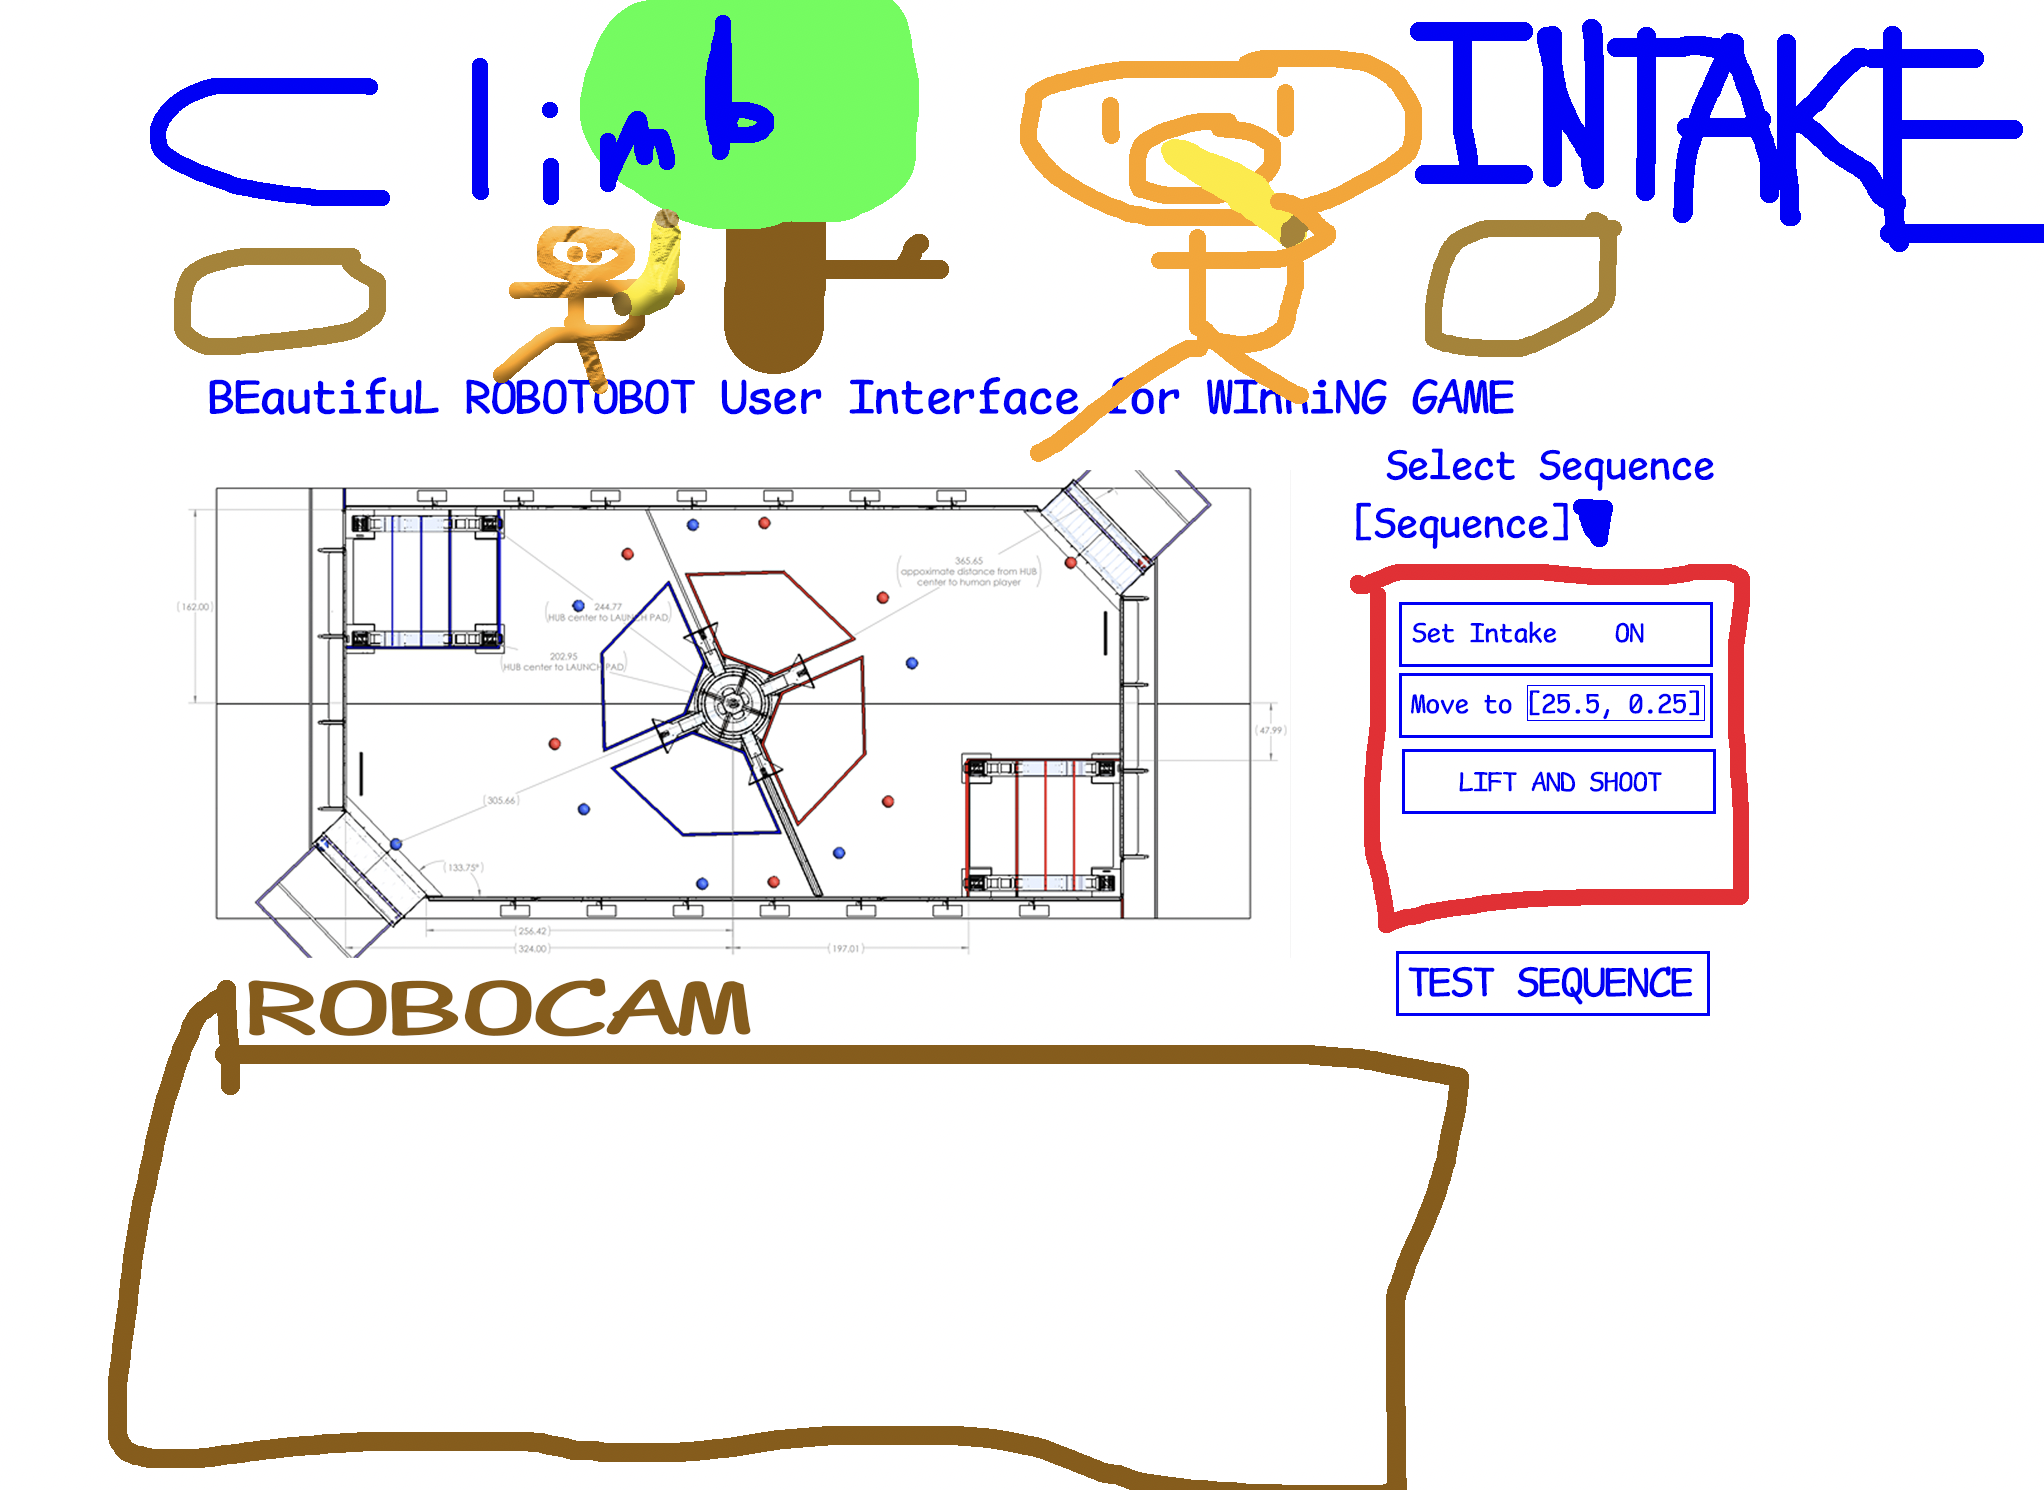
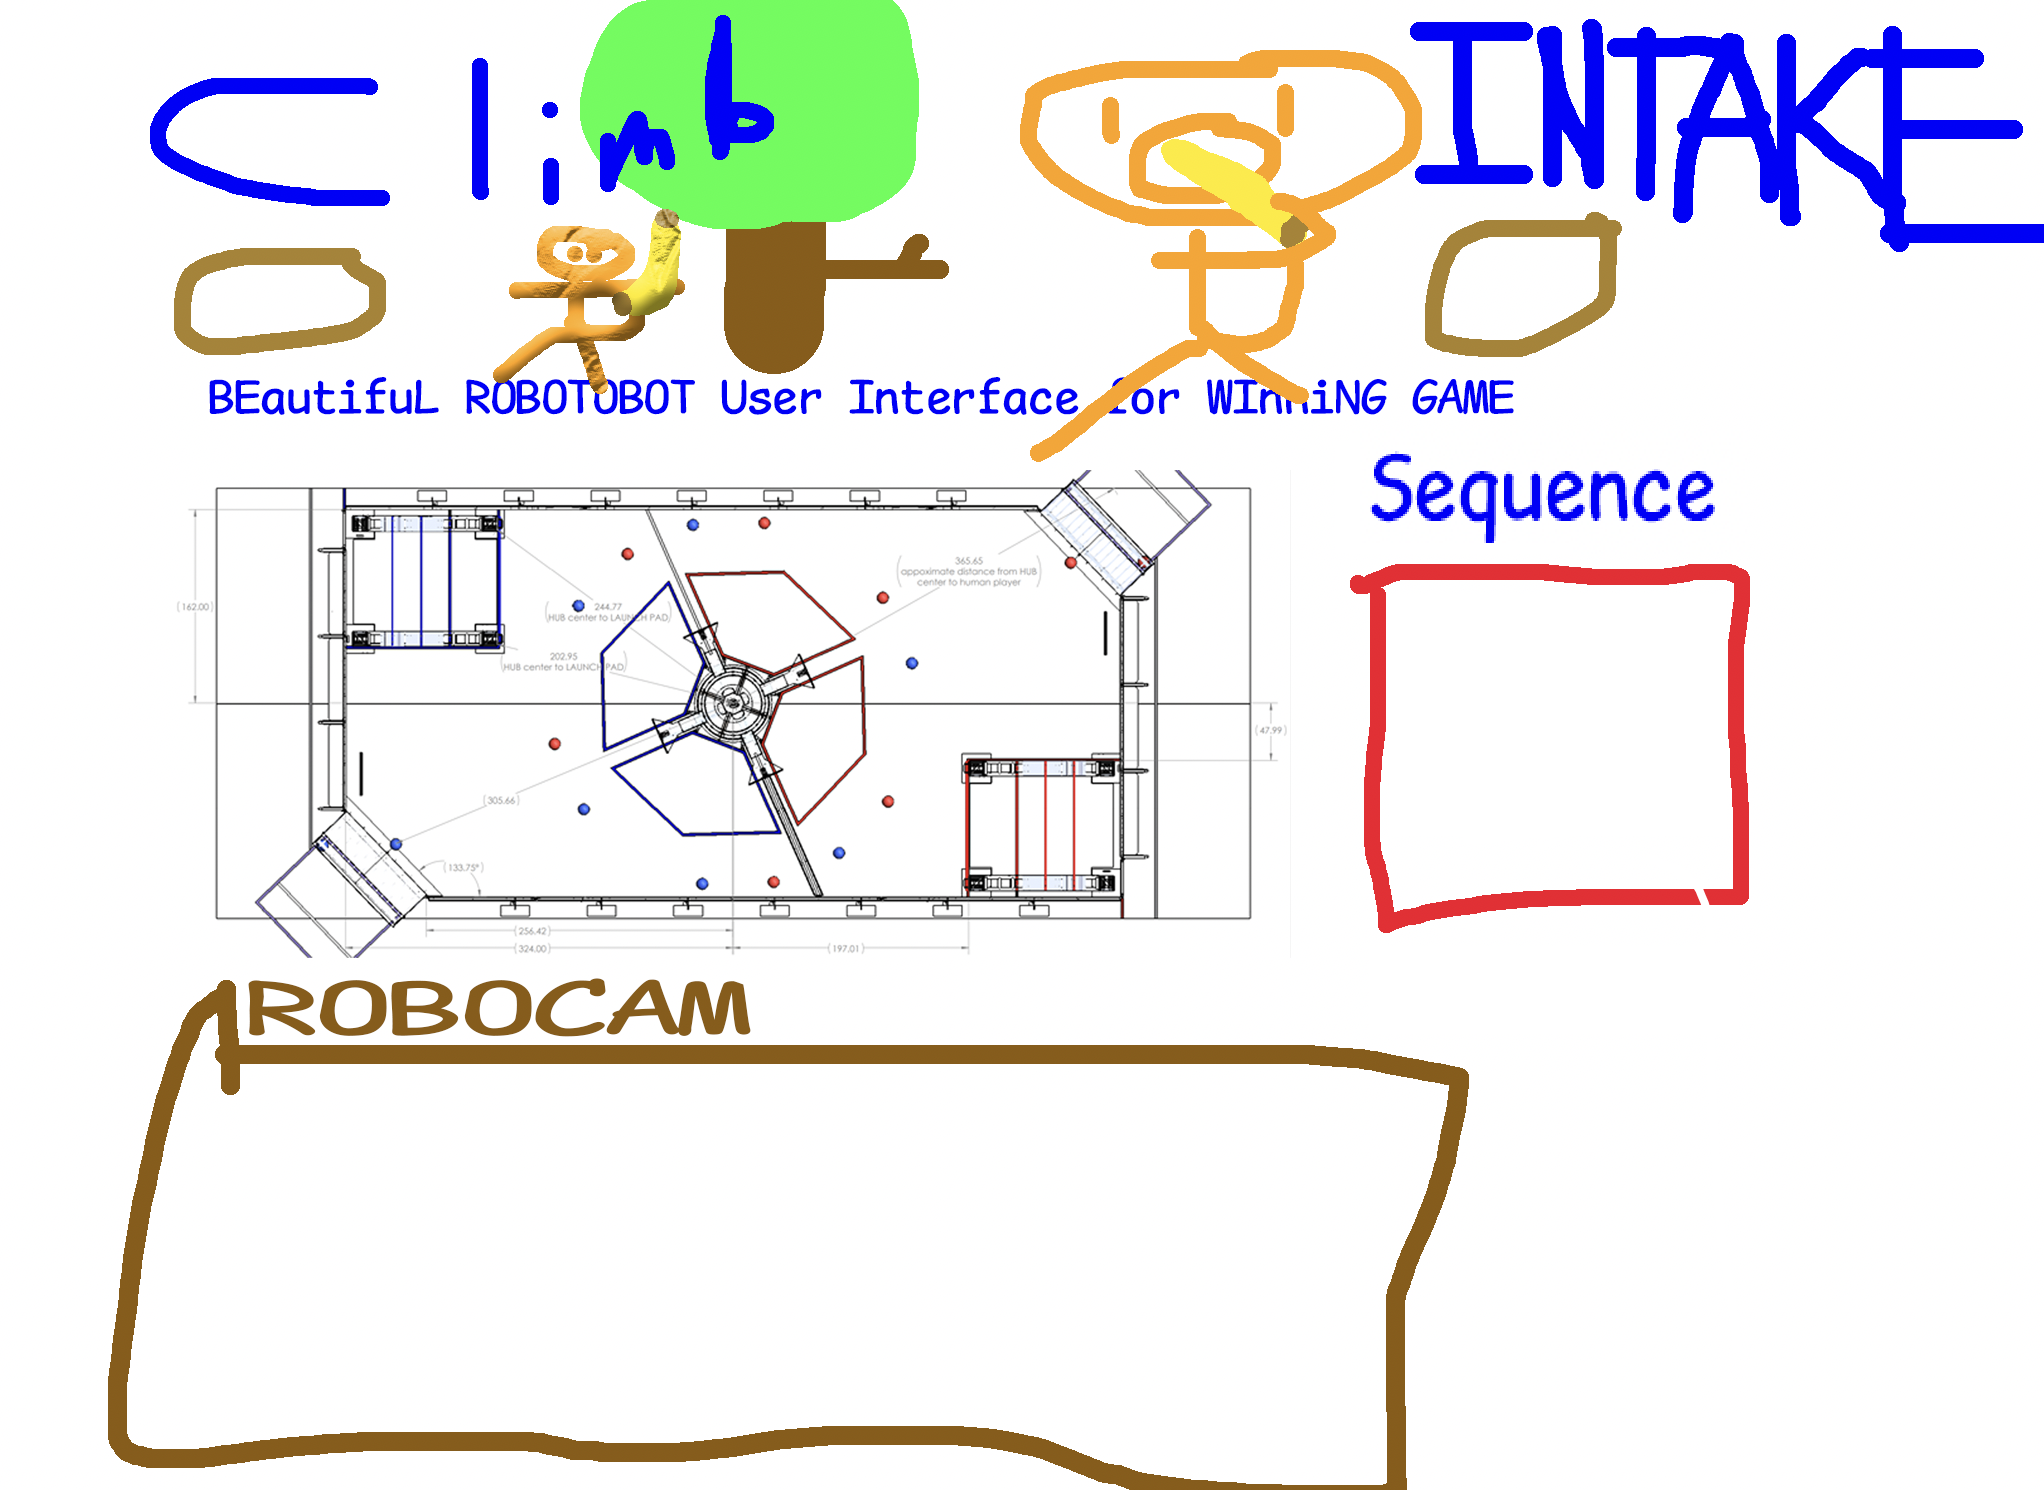
Added teleop modes, got teleop working

Changed region(s): [[0.6781, 0.4013, 0.8322, 0.5557], [0.6473, 0.2779, 0.863, 0.3705], [0.6781, 0.6483, 0.8322, 0.6792]]

diff --git a/src/main/java/frc/robot/Robot.java b/src/main/java/frc/robot/Robot.java
@@ -15,8 +15,6 @@ import frc.subsystems.DrivetrainController;
 import frc.subsystems.Intake;
 import frc.subsystems.Intake.IntakeMode;
 import edu.wpi.first.wpilibj.XboxController;
-import edu.wpi.first.wpilibj.smartdashboard.SendableChooser;
-import edu.wpi.first.wpilibj.smartdashboard.SmartDashboard;
 
 /**
  * The VM is configured to automatically run this class, and to call the
@@ -38,8 +36,6 @@ public class Robot extends TimedRobot {
     private final Climb climb = new Climb();
     private Auton auton;
 
-    private enum RightJoystickControlMode { CLIMB, INTAKE }
-
 
     public Robot() {
         super(PERIODIC_INTERVAL / 1000);
@@ -51,18 +47,6 @@ public class Robot extends TimedRobot {
         // start camera stream for USB camera
         UsbCamera camera = CameraServer.startAutomaticCapture();
         camera.setVideoMode(VideoMode.PixelFormat.kMJPEG, 1280, 720, 30);
-
-        // make tarmac selectable
-        SendableChooser<Tarmac> autonomousChooser = new SendableChooser<>();
-
-        for (Tarmac tarmac : Tarmac.values())
-            autonomousChooser.addOption(tarmac.name(), tarmac);
-
-        SmartDashboard.putData(autonomousChooser);
-
-        // TODO: add in field map
-        // Field2d autoFieldBack = new Field2d();
-        // SmartDashboard.putData(autoFieldBack);
     }
 
     /** Called every PERIODIC_INTERVAL */
@@ -91,46 +75,68 @@ public class Robot extends TimedRobot {
     public void teleopInit() {
     }
 
-    // store mode of right joystick for teleop
+    // teleop state
+    private enum RightJoystickControlMode { CLIMB, INTAKE }
+    private enum DriveMode { FAST, SLOW }
+
     private RightJoystickControlMode curRightJoystickControlMode = RightJoystickControlMode.INTAKE;
+    private DriveMode driveMode = DriveMode.FAST;
 
     /** This function is called periodically during operator control. */
     @Override
     public void teleopPeriodic() {
         // UPDATE DRIVETRAIN
-        double speed = -Math.pow(controller.getLeftY(), 3) * 0.6;
-        double turn = Math.pow(controller.getLeftX(), 3);
+        
+        // drivetrain mode
+        if (controller.getYButtonPressed()) {
+            driveMode = driveMode == DriveMode.FAST ? DriveMode.SLOW : DriveMode.FAST;
+        }
+
+        double speed = -Math.pow(controller.getLeftY(), 5) * 0.6;
+        if (driveMode == DriveMode.SLOW) speed *= 0.25; 
+
+        double turn = Math.pow(controller.getLeftX(), 5);
+        if (driveMode == DriveMode.SLOW) turn *= 0.25;
 
         drivetrainController.update(speed, turn);
 
         // UPDATE INTAKE
-        IntakeMode intakeMode = controller.getLeftBumperPressed()
+        IntakeMode intakeMode = controller.getLeftTriggerAxis() > 0.1
             ? IntakeMode.INWARD
-            : controller.getRightBumperPressed()
+            : controller.getRightTriggerAxis() > 0.1
                 ? IntakeMode.OUTWARD
                 : IntakeMode.IDLE;
+
+        System.out.println("INTAKE MODE: " + intakeMode);
 
         // ball intake
         intake.setIntake(intakeMode);
 
-        // UPDATE CLIMB/LIFT DEPENDING ON CONTROLLER STATUS
+        // switch to climb mode if B button pressed
         if (controller.getBButtonPressed()) {
             // stop intake
             intake.stopLift();
 
             // if B button pressed then joystick controls climb
             curRightJoystickControlMode = RightJoystickControlMode.CLIMB;
+            
+            // update gui
+            GUI.setToClimbMode();
         }
 
+        // switch to intake mode if X button pressed
         if (controller.getXButtonPressed()) {
             // stop climb
             climb.stop();
 
             // if X button pressed then joystick controls intake
             curRightJoystickControlMode = RightJoystickControlMode.INTAKE;
+
+            // update gui
+            GUI.setToIntakeMode();
         }
 
-        double rightJoystickSpeed = Math.signum(controller.getRightY()) * Math.pow(controller.getRightY(), 2);
+        double rightJoystickSpeed = -Math.signum(controller.getRightY()) * Math.pow(controller.getRightY(), 2);
 
         switch (curRightJoystickControlMode) {
             case CLIMB: climb.lift(rightJoystickSpeed); break;

diff --git a/src/main/java/frc/robot/TeleopController.java b/src/main/java/frc/robot/TeleopController.java
@@ -1,0 +1,75 @@
+package frc.robot;
+
+import edu.wpi.first.wpilibj.XboxController;
+import frc.subsystems.Climb;
+import frc.subsystems.DrivetrainController;
+import frc.subsystems.Intake;
+import frc.subsystems.Intake.IntakeMode;
+
+/**
+ * Wraps XboxController for getting
+ * controller to interact with Robot
+ * during teleop
+ */
+public class TeleopController {
+    private final XboxController controller;
+
+    private enum RightJoystickControlMode { CLIMB, INTAKE }
+    private enum DriveMode { FAST, SLOW }
+
+    private RightJoystickControlMode curRightJoystickControlMode = RightJoystickControlMode.INTAKE;
+    private DriveMode driveMode = DriveMode.FAST;
+
+    public TeleopController(XboxController controller) {
+        this.controller = controller;
+    }    
+
+    private void toggleDriveMode() {
+        driveMode = driveMode == DriveMode.FAST ? DriveMode.SLOW : DriveMode.FAST;
+    }
+
+    public void update(DrivetrainController drivetrainController, Intake intake, Climb climb) {
+        // drivetrain
+        if (controller.getYButtonPressed()) toggleDriveMode();
+
+        double speed = -Math.pow(controller.getLeftY(), 5) * 0.6;
+        if (driveMode == DriveMode.SLOW) speed *= 0.25; 
+
+        double turn = Math.pow(controller.getLeftX(), 5);
+        if (driveMode == DriveMode.SLOW) turn *= 0.25;
+
+        drivetrainController.update(speed, turn);
+
+        // intake
+        IntakeMode intakeMode = controller.getLeftTriggerAxis() > 0.1
+            ? IntakeMode.INWARD
+            : controller.getRightTriggerAxis() > 0.1
+                ? IntakeMode.OUTWARD
+                : IntakeMode.IDLE;
+        intake.setIntake(intakeMode);
+
+        System.out.println("INTAKE MODE: " + intakeMode);
+
+        // right joystick
+        // switch to climb mode if B button pressed
+        if (controller.getBButtonPressed()) {
+            intake.stopLift();
+            curRightJoystickControlMode = RightJoystickControlMode.CLIMB;
+            GUI.setToClimbMode();
+        }
+
+        // switch to intake mode if X button pressed
+        if (controller.getXButtonPressed()) {
+            climb.stop();
+            curRightJoystickControlMode = RightJoystickControlMode.INTAKE;
+            GUI.setToIntakeMode();
+        }
+
+        double rightJoystickSpeed = -Math.signum(controller.getRightY()) * Math.pow(controller.getRightY(), 2);
+
+        switch (curRightJoystickControlMode) {
+            case CLIMB: climb.lift(rightJoystickSpeed); break;
+            case INTAKE: intake.setLift(rightJoystickSpeed); break;
+        }
+    }
+}

diff --git a/src/main/java/frc/robot/GUI.java b/src/main/java/frc/robot/GUI.java
@@ -1,0 +1,45 @@
+package frc.robot;
+
+import java.util.Optional;
+
+import edu.wpi.first.wpilibj.smartdashboard.SendableChooser;
+import edu.wpi.first.wpilibj.smartdashboard.SmartDashboard;
+
+/**
+ * Wraps SmartDashboard for reading, writing
+ * and displaying information
+ */
+public class GUI {
+    private static final String INTAKE_SELECTED = "INTAKE SELECTED";
+    private static final String CLIMB_SELECTED = "CLIMB SELECTED";
+
+    private static final SendableChooser<Optional<Tarmac>> autonomousChooser = new SendableChooser<>();
+
+    static {
+        // add options for sequences
+        for (Tarmac tarmac : Tarmac.values())
+            autonomousChooser.addOption(tarmac.name(), Optional.of(tarmac));
+
+        autonomousChooser.addOption("CUSTOM", Optional.empty());
+
+        SmartDashboard.putData(autonomousChooser); 
+    }
+
+    public static void setToIntakeMode() {
+        setIntakeSelectedLabel(true);
+        setClimbSelectedLabel(false);
+    }
+
+    public static void setToClimbMode() {
+        setClimbSelectedLabel(true);
+        setIntakeSelectedLabel(false);
+    }
+
+    private static void setIntakeSelectedLabel(boolean visible) {
+        SmartDashboard.putString(INTAKE_SELECTED, visible ? INTAKE_SELECTED : "");
+    }
+
+    private static void setClimbSelectedLabel(boolean visible) {
+        SmartDashboard.putString(CLIMB_SELECTED, visible ? CLIMB_SELECTED : "");
+    }
+}

diff --git a/src/main/java/frc/subsystems/Intake.java b/src/main/java/frc/subsystems/Intake.java
@@ -20,15 +20,19 @@ public class Intake {
     public enum LiftPosition { HIGH, LOW }
     public enum IntakeMode { IDLE, INWARD, OUTWARD }
 
-    private final static double LIFT_SPEED = 0.1;
-    private final static double INTAKE_SPEED = 0.1;
+    // private final static double LIFT_SPEED = 0.1;
+    private final static double INTAKE_SPEED = 0.3;
+    private final static double OUTTAKE_SPEED = 1;
 
     public void setIntake(IntakeMode mode) {
-        double speed = mode == IntakeMode.IDLE 
-            ? 0
-            : mode == IntakeMode.INWARD
-                ? -INTAKE_SPEED
-                : INTAKE_SPEED;
+        double speed = -1; // initial value not used for anything
+
+        switch (mode) {
+            case IDLE: speed = 0; break;
+            case INWARD: speed = INTAKE_SPEED; break;
+            case OUTWARD: speed = -OUTTAKE_SPEED; break;
+        }
+
         intake.set(speed);
     }
 

diff --git a/src/main/java/frc/robot/RobotMap.java b/src/main/java/frc/robot/RobotMap.java
@@ -2,11 +2,11 @@ package frc.robot;
 
 public class RobotMap {
     // climb
-    public static final int CLIMB_MOTOR = 7;     
+    public static final int CLIMB_MOTOR = 7;
 
     // intake 
     public static final int INTAKE_MOTOR_LIFT = 6;
-    public static final int INTAKE_MOTOR_INTAKE = 1;
+    public static final int INTAKE_MOTOR_INTAKE = 8;
 
     public static final int INTAKE_LIMIT_BOTTOM = -1;
     public static final int INTAKE_LIMIT_TOP = -1;
@@ -18,8 +18,4 @@ public class RobotMap {
     public static final int DRIVETRAIN_MOTOR_FRONT_RIGHT = 2;
 
     public static final int XBOX_CONTROLLER = 0;
-
-    // sensors
-    public static final int LIMIT_SWITCH = 0;
-    public static final int OPTICAL_SENSOR = 1;
 }
